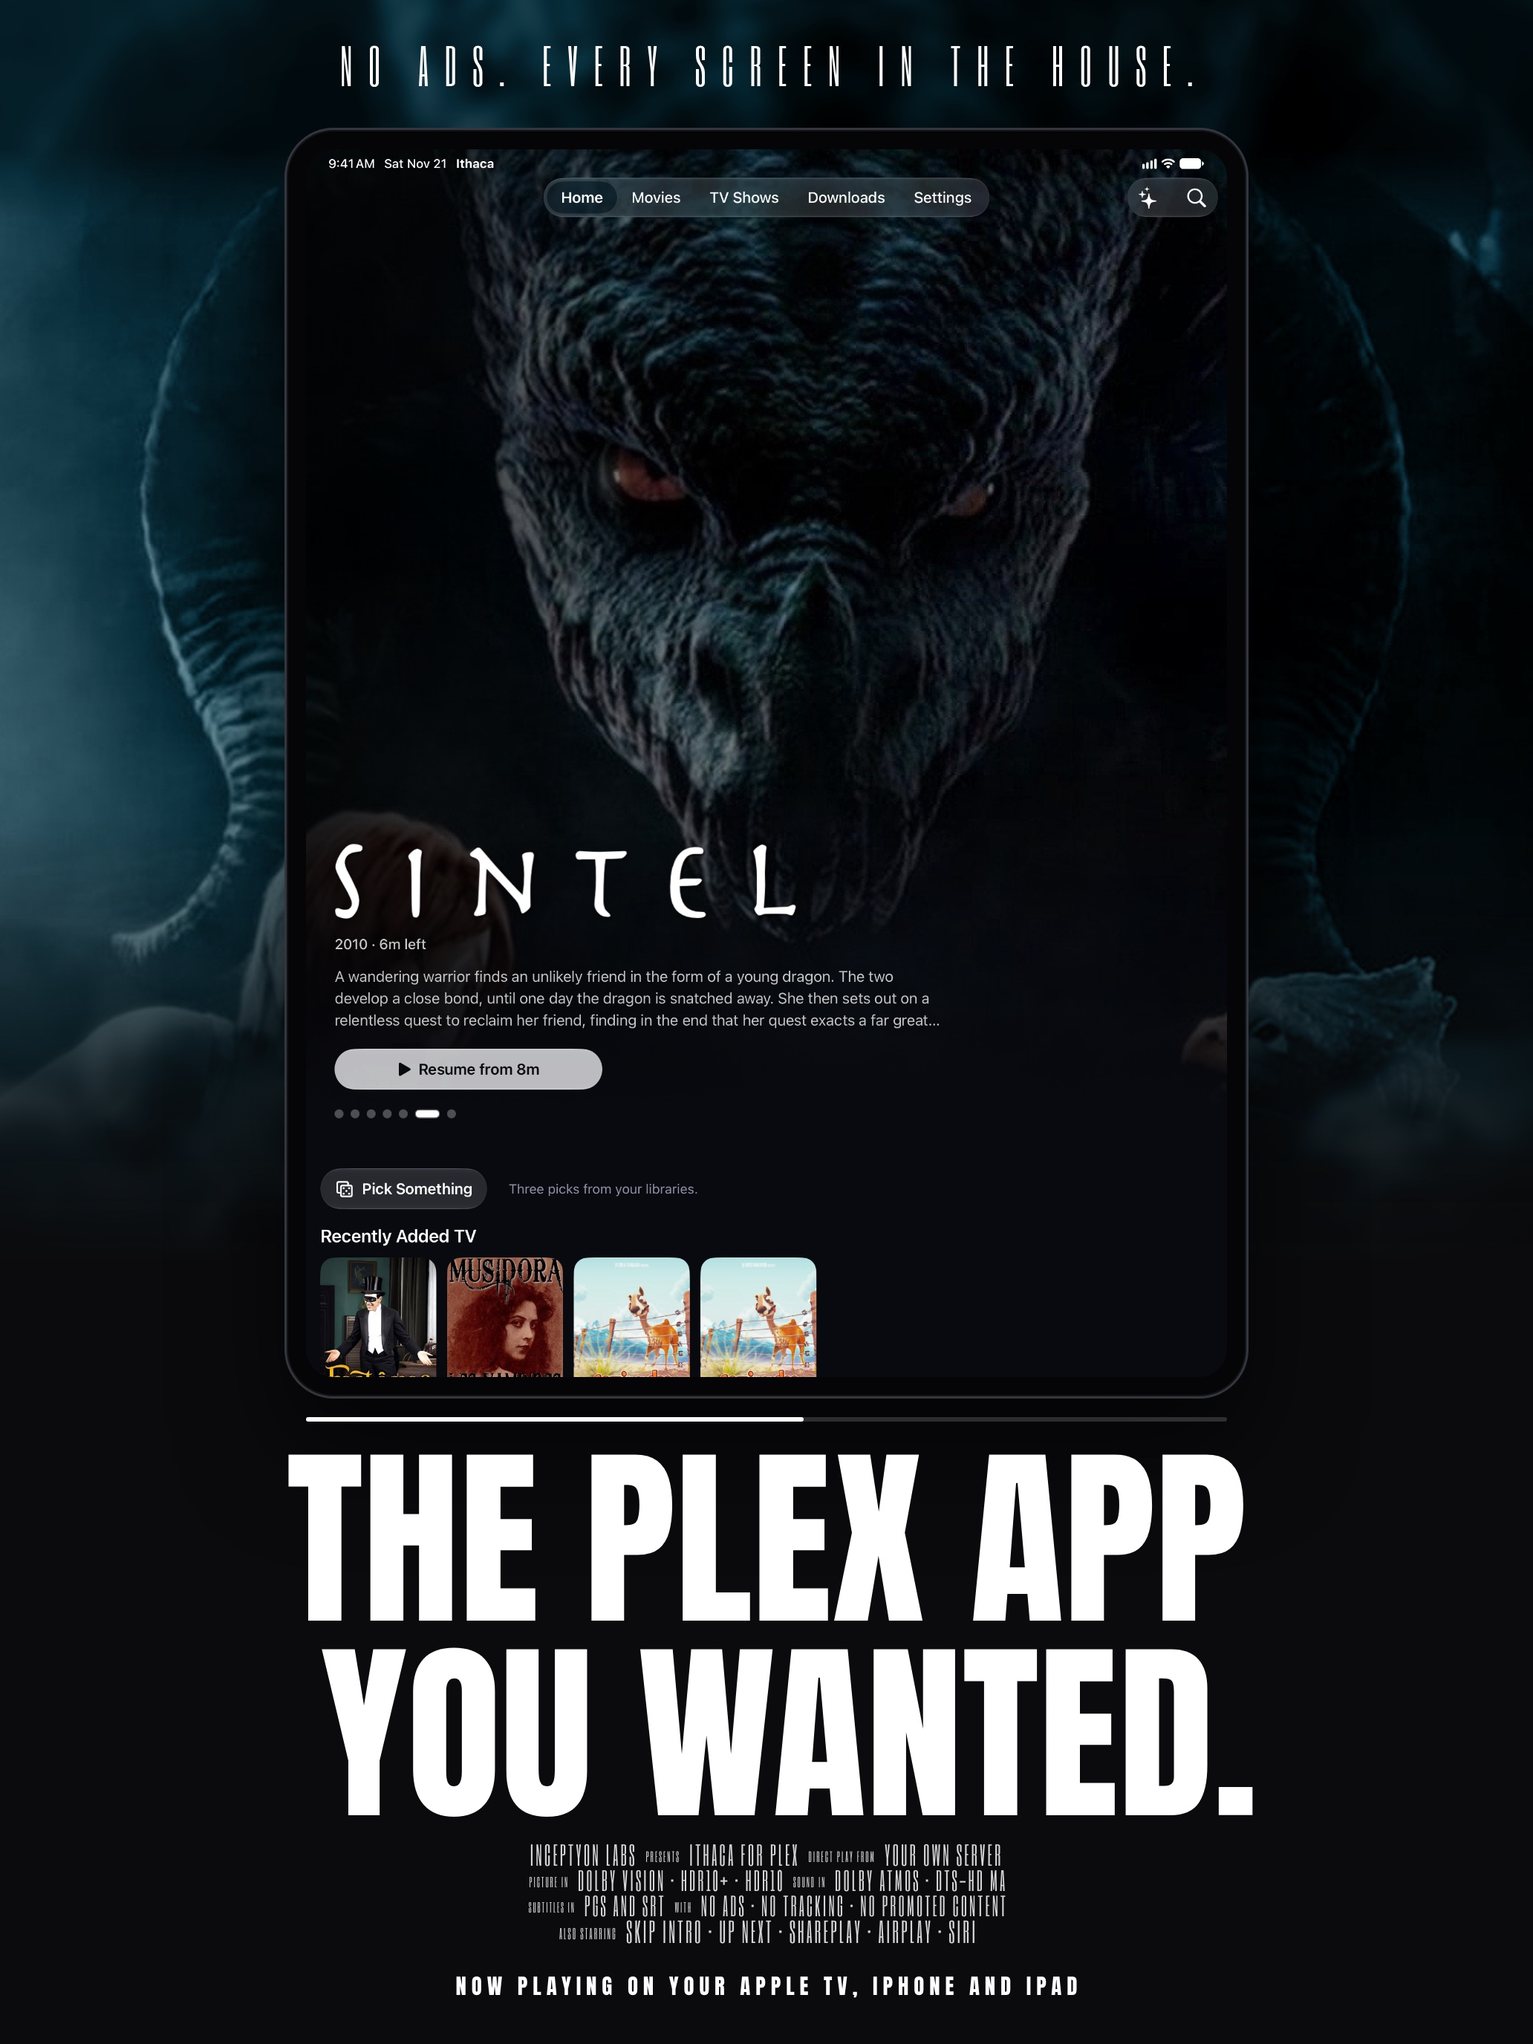
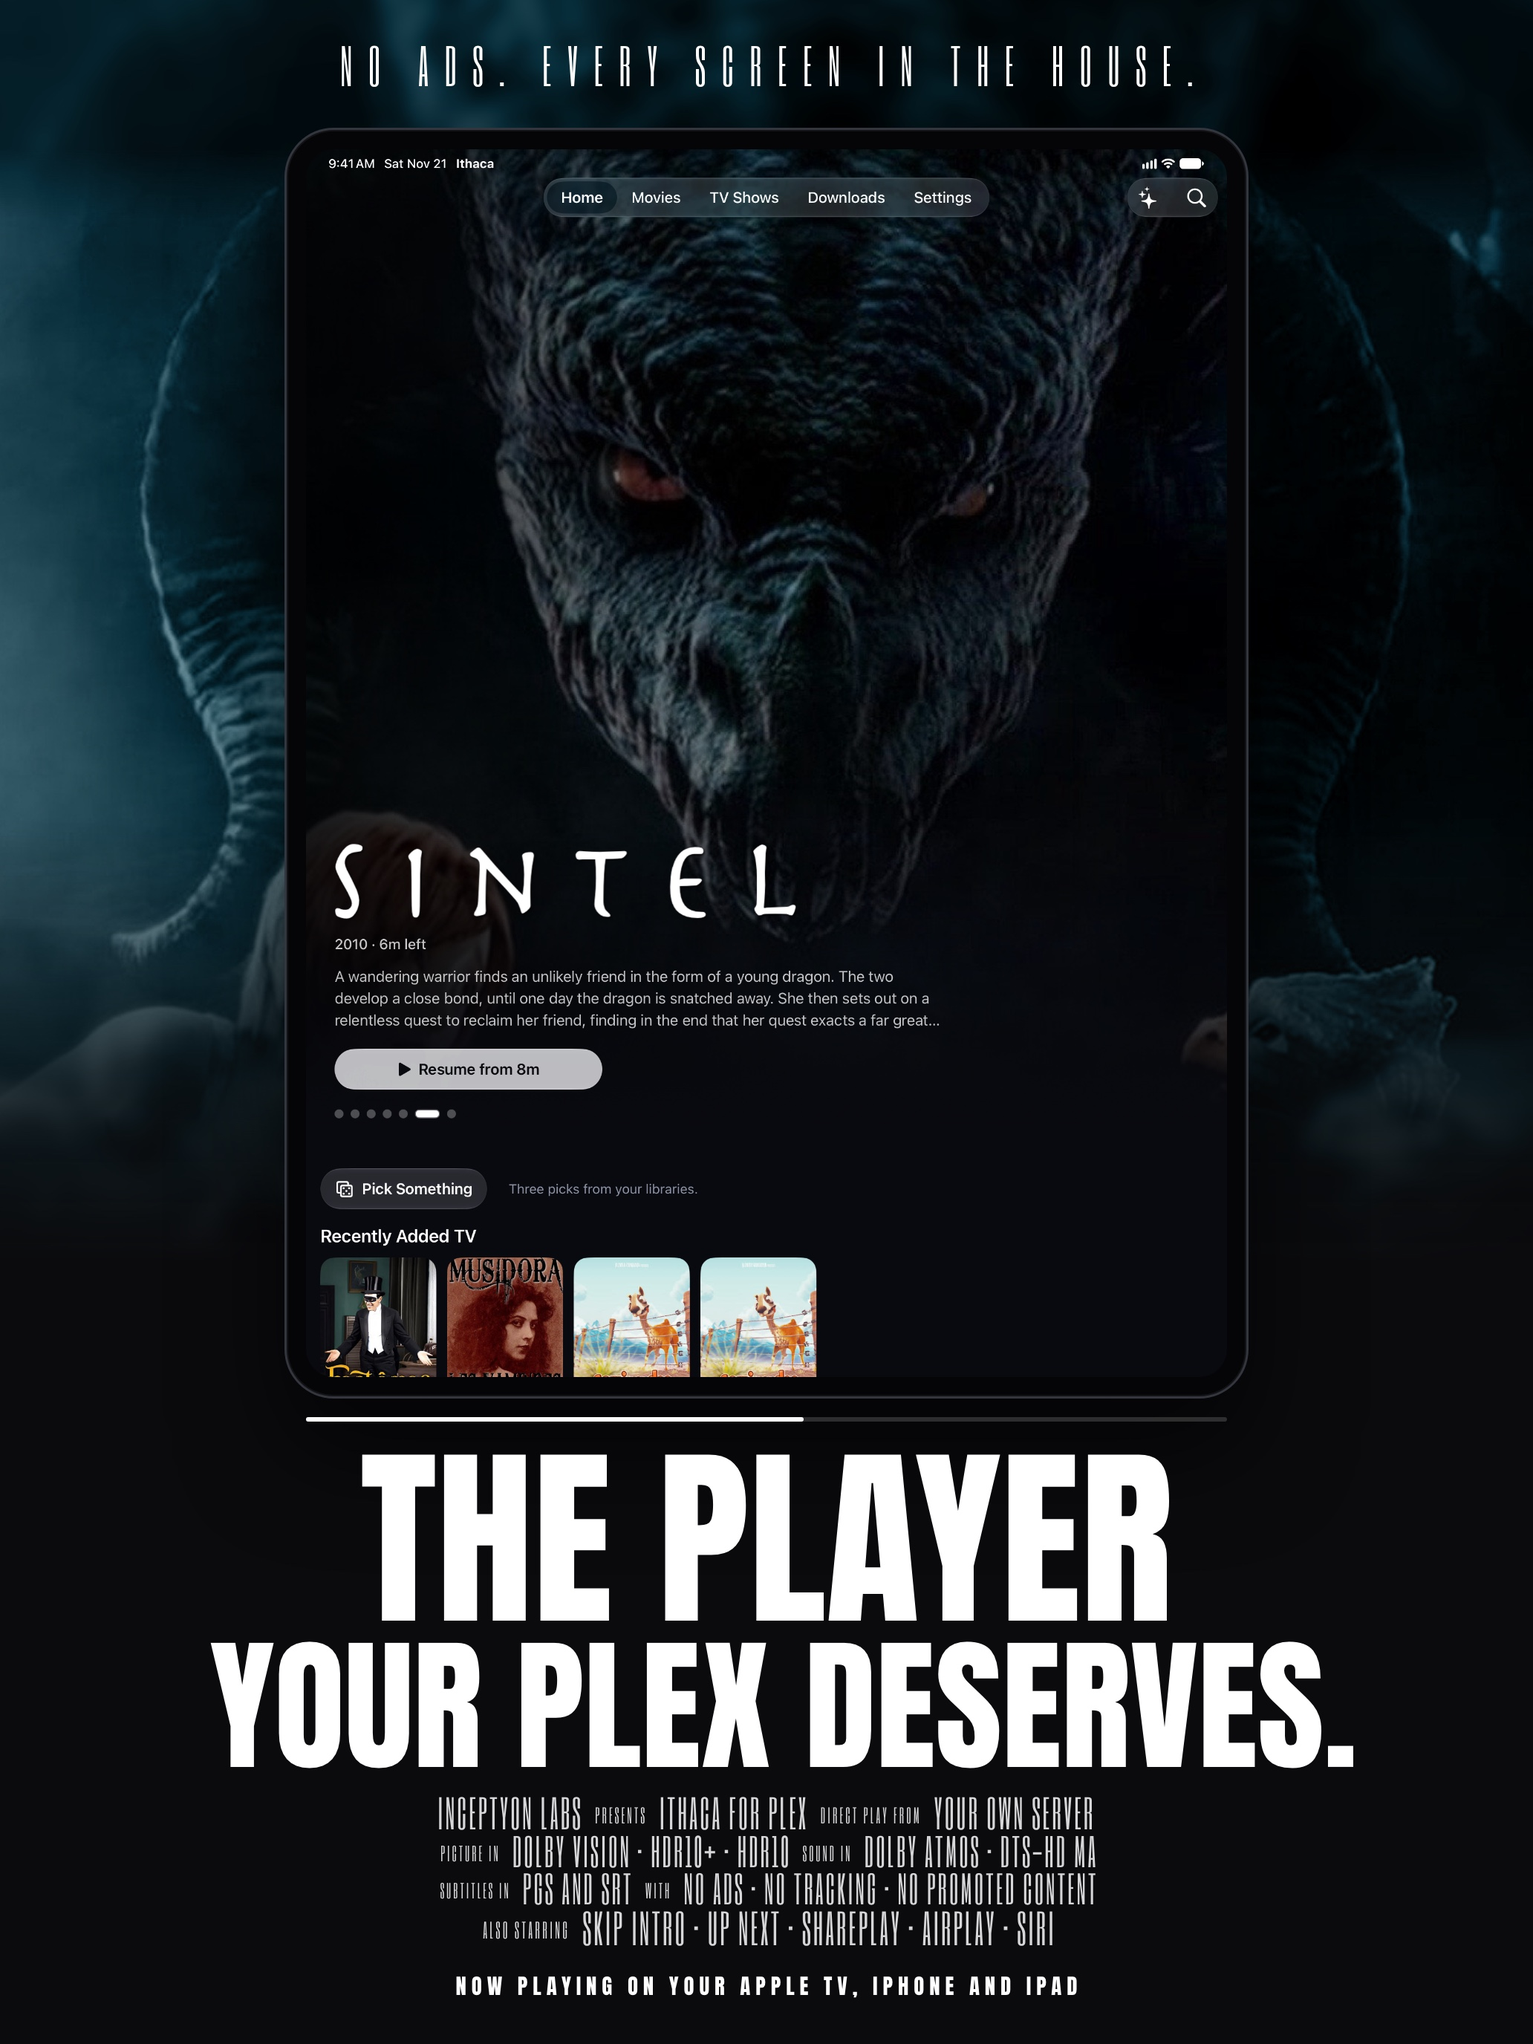
docs(app-store): new headline, keywords and Seerr review notes, plus the submission report

Changed region(s): [[0.124, 0.6875, 0.8992, 0.9688]]

diff --git a/docs/app-store/compose.py b/docs/app-store/compose.py
@@ -33,7 +33,7 @@ SLIDES = [
          art_by=dict(ipad="sintel-art.jpg", tv="sintel-art.jpg", duo="sintel-art.jpg"),
          place=dict(phone=(-888, -432, 2991), ipad=(-952, 0, 3972), duo=(-264, -2, 3131)),
          tag="No ads. Every screen in the house.",
-         title=("The Plex app", "you wanted<em>.</em>"),
+         title=("The player", "your Plex deserves<em>.</em>"),
          bill=["INCEPTYON LABS <i>PRESENTS</i> ITHACA FOR PLEX <i>DIRECT PLAY FROM</i> YOUR OWN SERVER",
                "<i>PICTURE IN</i> DOLBY VISION · HDR10+ · HDR10 <i>SOUND IN</i> DOLBY ATMOS · DTS-HD MA",
                "<i>SUBTITLES IN</i> PGS AND SRT <i>WITH</i> NO ADS · NO TRACKING · NO PROMOTED CONTENT",
@@ -252,12 +252,12 @@ body {{ position: relative; background: {BLACK}; color: #fff; -webkit-font-smoot
           rgba(11,11,13,.45), rgba(11,11,13,.15) 75%, rgba(11,11,13,0)); }}
 .safe {{ position: absolute; left: {sx}px; top: {sy}px; width: {sw}px; height: {sh}px; display: flex; flex-direction: column;
          align-items: center; justify-content: center; text-align: center; }}
-h1 {{ font: 400 210px/.88 Anton; text-transform: uppercase; }}
+h1 {{ font: 400 168px/.9 Anton; text-transform: uppercase; white-space: nowrap; }}
 h1 em {{ font-style: normal; margin-right: -.236em; }}
 .bill {{ margin-top: 48px; font: 64px/1 "Six Caps"; letter-spacing: .06em; color: rgba(255,255,255,.86); }}
 """
     body = (f'<img class="art" src="{art}"><div class="tint"></div><div class="scrim"></div><div class="safe">'
-            '<h1>The Plex app<br>you wanted<em>.</em></h1>'
+            '<h1>The player<br>your Plex deserves<em>.</em></h1>'
             '<p class="bill">ITHACA FOR PLEX · APPLE TV · IPHONE · IPAD · NO ADS</p></div>')
     return f"<!doctype html><html><head><meta charset='utf-8'><style>{css}</style></head><body>{body}</body></html>"
 

diff --git a/docs/app-store-ready/report-2026-11-21.md b/docs/app-store-ready/report-2026-11-21.md
@@ -1,0 +1,77 @@
+# App Store Submission Report
+## Generated: 2026-11-21 (Ithaca for Plex 1.0, iOS + tvOS, build 4 attached)
+
+## Summary
+- Blockers: 1
+- Warnings: 8
+- Passes: 27
+- Skipped (not readable through the API, confirm in App Store Connect): 2
+- iPhone Duo: RUNS BUT NOT OPTIMIZED (build 4); main is optimized once build 5 is uploaded
+- Overall: NO-GO until build 5 is attached. Everything else Apple checks is in place.
+
+Decision gate: one blocker, so steps 2–5 (ASO, creative, competitors, app size/accessibility) were not run.
+
+## Blockers (Must Fix)
+1. [BLOCKER] (skill policy, guideline 2.3) Build 4, attached to both versions, predates commit `0553454`. It doesn't have the iPad layouts on the iPhone Duo's inner screen, so Duo slide 1 (Home with the full-height hero and summary) shows a layout build 4 doesn't draw. Build 4 shows the centred iPhone banner there.
+   - Fix: `./scripts/deploy.sh prod`, option 1 (build 5). It attaches build 5 to both versions, which brings the binary in line with the Duo slide and makes the Duo verdict OPTIMIZED. Then run the device pass on build 5, not 4.
+   - Apple's own rejection risk here is low, since the difference is one hero layout. It blocks because the skill requires Duo screenshots to show the app as it runs.
+
+## Warnings (Should Fix)
+1. [WARNING] 2.3.1, a feature the reviewer can't reach: slide 3 (all devices) shows a Seerr request, and the demo Seerr is only on the LAN. The review notes say Seerr is an optional companion. A Seerr the reviewer can reach would remove the risk.
+2. [WARNING] 4.1 / 5.2.1, Plex trademark: slide 1 and the product page header say "The Plex app you wanted." That reads as Plex's own app, while the description says Ithaca is "not made or endorsed by Plex." Plex's guidelines ask for the "for Plex" framing. Consider "The player your Plex deserves" or "Your Plex, played as made."
+3. [WARNING] 2.3.7, trademarks and other app names in keywords: `seerr` (iOS) and `siri` (tvOS) are another app's name and an Apple trademark. `dolby vision` and `atmos` are Dolby marks that describe format support, which is common in the category and lower risk. Swapping `seerr` and `siri` for `request`, `subtitles` or `offline` frees bytes too.
+4. [WARNING] 2.1, the review server's reachability: the demo account sees Uranus with one remote connection (`https://plex.jplex.us`, behind Cloudflare, answers 200). Plex Remote Access and Relay are off, so review playback depends on that proxy. Play a film with the review account over cellular before submitting (the checklist item is still open).
+5. [WARNING] Duo layout scan: `userInterfaceIdiom` still drives four spots. All four are deliberate and none clips content:
+   - `App/MainTabView.swift:334` and `:372`: iPhone five-tab limit and More tab. iOS keeps the iPhone tab bar on Duo either way.
+   - `Features/Detail/DetailSharedViews.swift:8`: full-width detail buttons only on compact iPhone. A size-class check alone would do the same; low value to change.
+   - `Features/Player/PlayerView.swift:49`: iPad reserves the status-bar inset in the player.
+   - `Playback/PlaybackEngine.swift:448`: subtitle base size, where iPhone distance is the right call on Duo.
+6. [WARNING] Manual Duo pose tests still to do. On 2026-11-21 the simulator covered outer and inner landscape, and fold and unfold during AVPlayer and VLC playback. Not yet covered: the inner screen in portrait, half-folded, every sheet and popover, and a real device.
+7. [WARNING] Release checklist items that are yours: the TestFlight device pass (Dolby Vision, Atmos, TrueHD, PGS, downloads, SharePlay, Top Shelf, sandbox trial and purchase), and adding both in-app purchases to the submission from the version page.
+8. [WARNING] The Duo set was not re-scored by Impeccable's finish review. The Apple TV slide 4 "Pick Again" pill clip is also still open.
+
+## Skipped (confirm in App Store Connect)
+1. [SKIP] App Privacy (nutrition label): the API can't read it. It should be published as Data Not Collected, matching `PrivacyInfo.xcprivacy` (no collected types, no tracking). Submission is refused if it isn't published.
+2. [SKIP] EU DSA trader status: not readable through the API. Without it the app is left off the EU storefronts.
+
+## Passes
+1. [PASS] Build SDK: Xcode 27.2 (27B52), `iphoneos27.2` / `appletvos27.2` in the build 4 archive. Meets the iOS 26 SDK rule now and the iOS 27 rule due April 2027.
+2. [PASS] Deployment targets: iOS 18.0, tvOS 26.0.
+3. [PASS] Version and build: 1.0 (4) on both platforms, both processed VALID; the next upload is 5.
+4. [PASS] Binary: arm64 only (app and MobileVLCKit), no simulator slices.
+5. [PASS] iOS icon: Icon Composer `AppIcon.icon` (1024 × 1024 foreground layer, gradient fill, no baked mask or glass). High contrast, simple silhouette, legible small. Appearance variants are system-generated (TIP: custom dark/tinted variants).
+6. [PASS] tvOS icon: `AppIconTV.brandassets` layered stacks (App Store 1280 × 768 back layer, 400 × 240 and 800 × 480 home layers), and a Top Shelf wide image at 2320 × 720 and @2x.
+7. [PASS] Screenshots, iOS: Dynamic Island large 6 × 1320 × 2868, medium 6 × 1206 × 2622, iPad 13" 6 × 2064 × 2752, iPhone Duo 6 × 2853 × 2007 (inner, landscape). All processed; no alpha.
+8. [PASS] Screenshots, tvOS: 6 × 3840 × 2160.
+9. [PASS] 2.3.3: every slide shows the real app in a drawn device frame; demo content is CC BY / public domain with credits in the description.
+10. [PASS] Product page header (5244 × 2950 universal) in the Asset Library; key art inside the safe area.
+11. [PASS] Metadata: name "Ithaca for Plex" (15), subtitle "Plays your Plex files direct" (28), keywords 98 / 97 bytes, promotional text 145, description 2,401 / 2,481, copyright "2026 Inceptyon Labs LLC".
+12. [PASS] 2.3.2: the description says what Ithaca Pro unlocks, that it's a one-time purchase, and the free 7-day trial.
+13. [PASS] 2.3.10: no other platforms named.
+14. [PASS] Privacy policy (`/ithaca/privacy`) and support (`/ithaca/support`) URLs: 200, correct page titles. tvOS privacy policy text is set (4,055 chars).
+15. [PASS] Category: Entertainment, secondary Photo & Video.
+16. [PASS] Age rating: 4+, current questionnaire answered (social media, Shared Location, Dating and Relationships all present, all no).
+17. [PASS] Content rights: uses third-party content, rights confirmed.
+18. [PASS] Export compliance: `ITSAppUsesNonExemptEncryption` false on both; France left out of availability, a decision recorded in `docs/app-store-release.md`.
+19. [PASS] 2.1(a) demo account: name, password and contact on both versions; notes cover Apple TV link sign-in, the trial path to Describe It, and that Seerr and Athena are optional.
+20. [PASS] In-app purchases: `com.inceptyon.ithaca.trial` (free, Non-Consumable) and `com.inceptyon.ithaca.pro` (Family Sharing), both Ready to Submit.
+21. [PASS] `PrivacyInfo.xcprivacy`: UserDefaults, disk space, file timestamp and boot time reasons declared; no tracking; no collected types. No SDK from Apple's listed-SDK set is used (VLCKit and IthacaDovi aren't on it). TIP: VLCKit has no manifest of its own; builds 2–4 uploaded without an ITMS-91053 refusal.
+22. [PASS] Usage descriptions: only `NSLocalNetworkUsageDescription`, which is specific. ATS allows local networking only.
+23. [PASS] Background modes: `audio` (playback) and `fetch` (the Seerr request check through `BGAppRefreshTask`), both used.
+24. [PASS] 5.1.2(i): only Athena sends anything off the device, behind a "Use Athena for Describe It?" consent that names Anthropic's Claude; Settings can turn it off.
+25. [PASS] 4.8: Plex sign-in is the account of the third-party service the app is a client for, so no equivalent login is required. No account creation, so no deletion flow (5.1.1(v)).
+26. [PASS] 2.5.19 / 2.1: screenshot mode is `#if DEBUG`; no hardcoded LAN or dev URLs in the app; no remote feature flags.
+27. [PASS] Duo, SDK tier and life cycle: iOS 27.2 SDK (≥ 27.1), SwiftUI `App` with a scene manifest; no `UIScreen.main`, `UIWindow(frame:)`, orientation-driven layout, hand-built bars or hardcoded screen sizes. Rotation supported (portrait and both landscapes).
+
+## Recommendations
+- Priority 1: `./scripts/deploy.sh prod` (option 1) for build 5, then the device pass on build 5.
+- Priority 2: confirm App Privacy (Data Not Collected) and DSA trader status are published.
+- Priority 3: play a film with the review account over cellular.
+- Priority 4: before submitting, swap `seerr` / `siri` out of the keywords, and decide on the "The Plex app you wanted" headline (slide 1 on every device and the header).
+- Then submit both versions from App Store Connect with both in-app purchases added, and rerun `/app-store-ready` for the ASO, creative and competitor passes, which the gate skipped.
+
+## Follow-up, 2026-11-21
+- Warning 1 (Seerr) resolved: the review notes on both versions give `seer.jplex.us`; the review account signs in there with Plex as a request-only user (checked through the API).
+- Warning 2 (Plex trademark) resolved: slide 1 on every device and the product page header now read "The player your Plex deserves." Replaced in all five screenshot sets and the header placement on both versions.
+- Warning 3 (keywords) resolved: `seerr` (iOS) and `siri` (tvOS) replaced with `nas` (96 bytes each).
+- Still open: the blocker (build 5), App Privacy and DSA confirmation, the cellular check.

diff --git a/docs/app-store/listing.md b/docs/app-store/listing.md
@@ -55,9 +55,9 @@ Draft text for App Store Connect, with options where a pick is needed. Limits ar
 
 Open in this draft: the Picture in Picture, Siri and Live TV wording needs checking against the app before this ships.
 
-**Keywords** (100 bytes; "Ithaca", "for" and "Plex" are already in the name, so they aren't repeated)
+**Keywords** (100 bytes; "Ithaca", "for" and "Plex" are already in the name, so they aren't repeated; no other app names or Apple marks, so `seerr` and `siri` came out on 2026-11-21)
 
-> media server,player,dolby vision,atmos,hdr,4k,mkv,remux,movies,tv shows,live tv,home theater,seerr
+> media server,player,dolby vision,atmos,hdr,4k,mkv,remux,movies,tv shows,live tv,home theater,nas
 
 **Support URL:** https://inceptyon.io/ithaca/support
 
@@ -71,7 +71,7 @@ Same description, with the first section led by the living room:
 
 **Keywords** (tvOS)
 
-> media server,player,dolby vision,atmos,hdr,4k,mkv,remux,movies,tv shows,live tv,home theater,siri
+> media server,player,dolby vision,atmos,hdr,4k,mkv,remux,movies,tv shows,live tv,home theater,nas
 
 ## App Review Information
 
@@ -84,7 +84,7 @@ Same description, with the first section led by the living room:
 >
 > Ithaca Pro unlocks Describe It: on Home, open Pick Something and tap the field at the top ("Describe what you're in the mood for"), or go to Settings → Ithaca Pro. Start the free 7-day trial there ("7-Day Trial" in-app purchase, free), then try "a short animated movie" or "old silent horror". Describe It runs on the device (Apple's on-device model where Apple Intelligence is on, built-in matching elsewhere); nothing is sent to us. After the trial, Ithaca Pro is a one-time purchase covering iPhone, iPad and Apple TV.
 >
-> Seerr is an optional companion server the user runs at home; requests appear once it is set up in Settings → Seerr. Athena (github.com/inceptyon-labs/athena) is another, optional one that lets Claude answer Describe It instead of the device; nothing else needs it.
+> Requesting titles (the third screenshot) uses Seerr, an optional companion server. A Seerr for review is online: in Settings → Seerr, enter seer.jplex.us as the Server URL, then Connect with Plex. Ithaca signs in to it with the same review account, which can request but not approve, so requests wait in our queue. Athena (github.com/inceptyon-labs/athena) is another, optional one that lets Claude answer Describe It instead of the device; nothing else needs it.
 
 ## App Privacy
 

diff --git a/docs/app-store-release.md b/docs/app-store-release.md
@@ -85,12 +85,12 @@ Sizes (Apple's screenshot specifications page, read 2026-11-20). Up to 10 per si
 
 ## Rejection risks, most likely first
 
-- 2.3.1, a feature in the screenshots the reviewer can't reach: slide 3 shows Seerr requests, and the demo Seerr is only on the home network. The review notes say Seerr is an optional companion server; giving the reviewer a reachable Seerr would remove the risk.
+- 2.3.1, a feature in the screenshots the reviewer can't reach: slide 3 shows Seerr requests. Handled 2026-11-21: the review notes give the public Seerr (`seer.jplex.us`, through Cloudflare), where the review account signs in with Plex as a request-only user.
 - 2.1, reviewer can't sign in or the library is empty: the demo account and a library that answers from outside the house.
 - 2.1 / 3.1.1, Pro features the reviewer can't reach: see the open decision in section 0.
 - 4.1 / 4.3, resemblance to Dusk for Plex, which Ithaca descends from (MIT, credited in `ThirdPartyNotices.txt`): own name, icon, screenshots and copy.
 - 5.1.2(i), Describe It sending text to a third-party AI: the consent prompt and the privacy policy.
-- 5.2, Plex trademark: "for Plex", no logo, unofficial stated.
+- 5.2, Plex trademark: "for Plex", no logo, unofficial stated. Slide 1 and the header said "The Plex app you wanted" until 2026-11-21, which read as Plex's own app; they now say "The player your Plex deserves."
 - 5.2.1, third-party artwork in screenshots: avoided with the public-domain and Blender library.
 
 ## Sources
